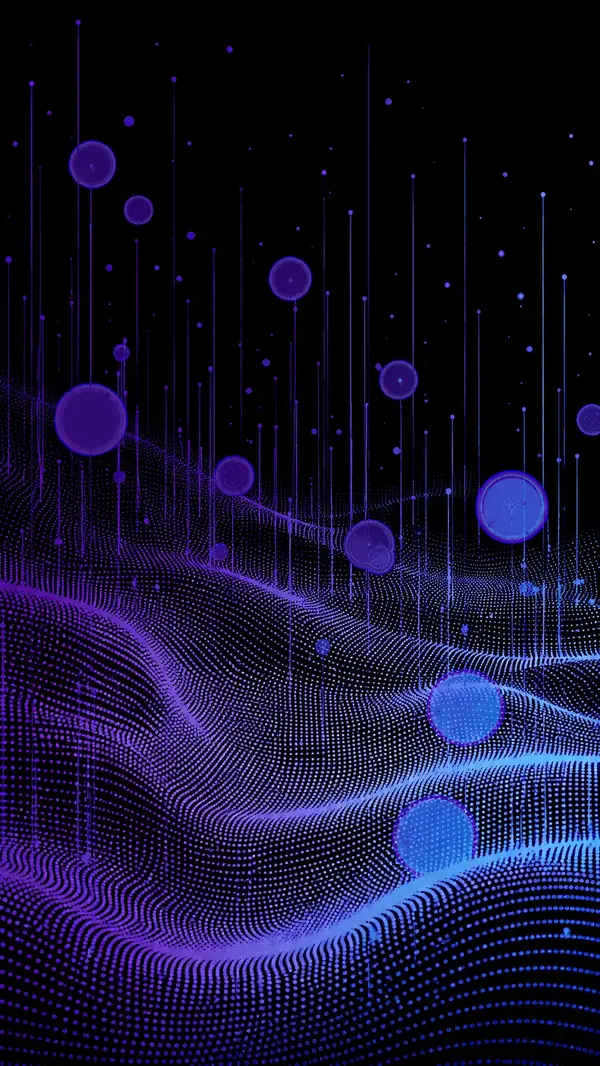
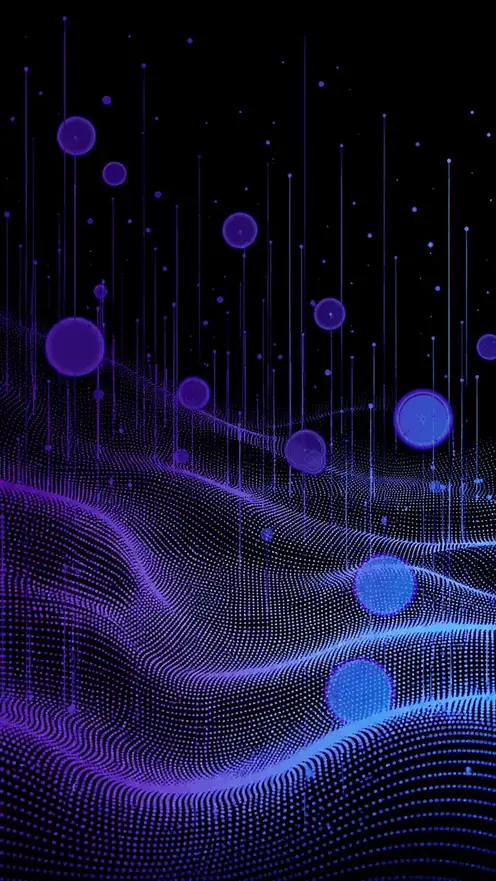
chore: remove unused png/webp assets, update index.html

diff --git a/index.html b/index.html
@@ -6,6 +6,55 @@
     <meta name="viewport" content="width=device-width, initial-scale=1.0" />
     <title>Aurélien Boudon — Développeur Full Stack</title>
     <meta name="description" content="Développeur Full Stack freelance — React, TypeScript, Python, Docker. Je prends en charge chaque couche de votre projet web." />
+    <meta name="author" content="Aurélien Boudon" />
+    <meta name="robots" content="index, follow" />
+    <link rel="canonical" href="https://devzair.fr/" />
+
+    <!-- Thème mobile -->
+    <meta name="theme-color" content="#0d0d14" />
+
+    <!-- Open Graph -->
+    <meta property="og:type" content="website" />
+    <meta property="og:url" content="https://devzair.fr/" />
+    <meta property="og:site_name" content="devZair" />
+    <meta property="og:title" content="Aurélien Boudon — Développeur Full Stack" />
+    <meta property="og:description" content="Développeur Full Stack freelance — React, TypeScript, Python, Docker. Je prends en charge chaque couche de votre projet web." />
+    <meta property="og:image" content="https://devzair.fr/devzair.webp" />
+    <meta property="og:image:width" content="1024" />
+    <meta property="og:image:height" content="1024" />
+    <meta property="og:image:alt" content="Logo devZair — Aurélien Boudon" />
+    <meta property="og:locale" content="fr_FR" />
+    <meta property="og:locale:alternate" content="en_US" />
+
+    <!-- Twitter / X Card -->
+    <meta name="twitter:card" content="summary_large_image" />
+    <meta name="twitter:title" content="Aurélien Boudon — Développeur Full Stack" />
+    <meta name="twitter:description" content="Développeur Full Stack freelance — React, TypeScript, Python, Docker. Je prends en charge chaque couche de votre projet web." />
+    <meta name="twitter:image" content="https://devzair.fr/devzair.webp" />
+
+    <!-- Hreflang (SPA bilingue sur le même domaine) -->
+    <link rel="alternate" hreflang="fr" href="https://devzair.fr/" />
+    <link rel="alternate" hreflang="en" href="https://devzair.fr/" />
+    <link rel="alternate" hreflang="x-default" href="https://devzair.fr/" />
+
+    <!-- Données structurées JSON-LD -->
+    <script type="application/ld+json">
+    {
+      "@context": "https://schema.org",
+      "@type": "Person",
+      "name": "Aurélien Boudon",
+      "url": "https://devzair.fr",
+      "jobTitle": "Développeur Full Stack",
+      "description": "Développeur Full Stack freelance spécialisé React, TypeScript, Python et Docker.",
+      "image": "https://devzair.fr/devzair.webp",
+      "sameAs": [
+        "https://github.com/devzair-officiel"
+      ]
+    }
+    </script>
+
+    <!-- LCP image preload -->
+    <link rel="preload" as="image" href="/vague_mobile.webp" fetchpriority="high" />
 
     <!-- API preconnect -->
     <link rel="preconnect" href="https://api-portfolio.devzair.fr" crossorigin />